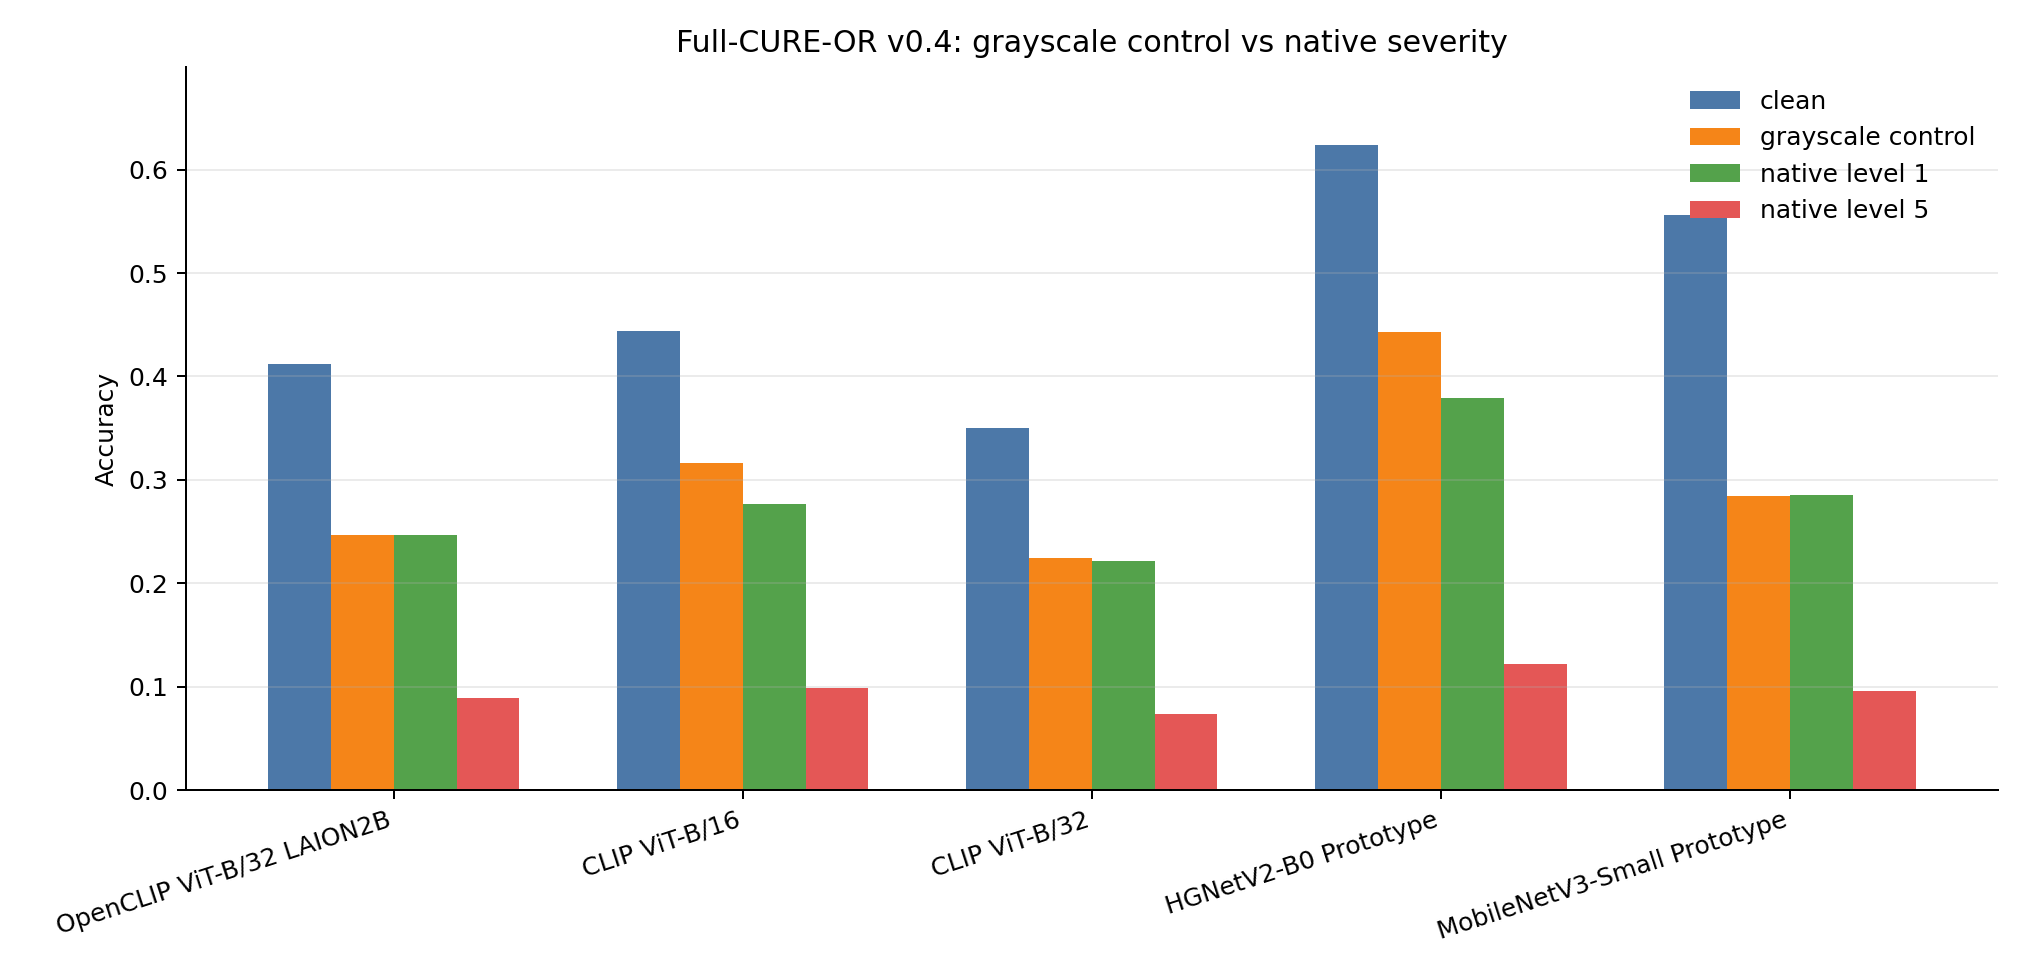
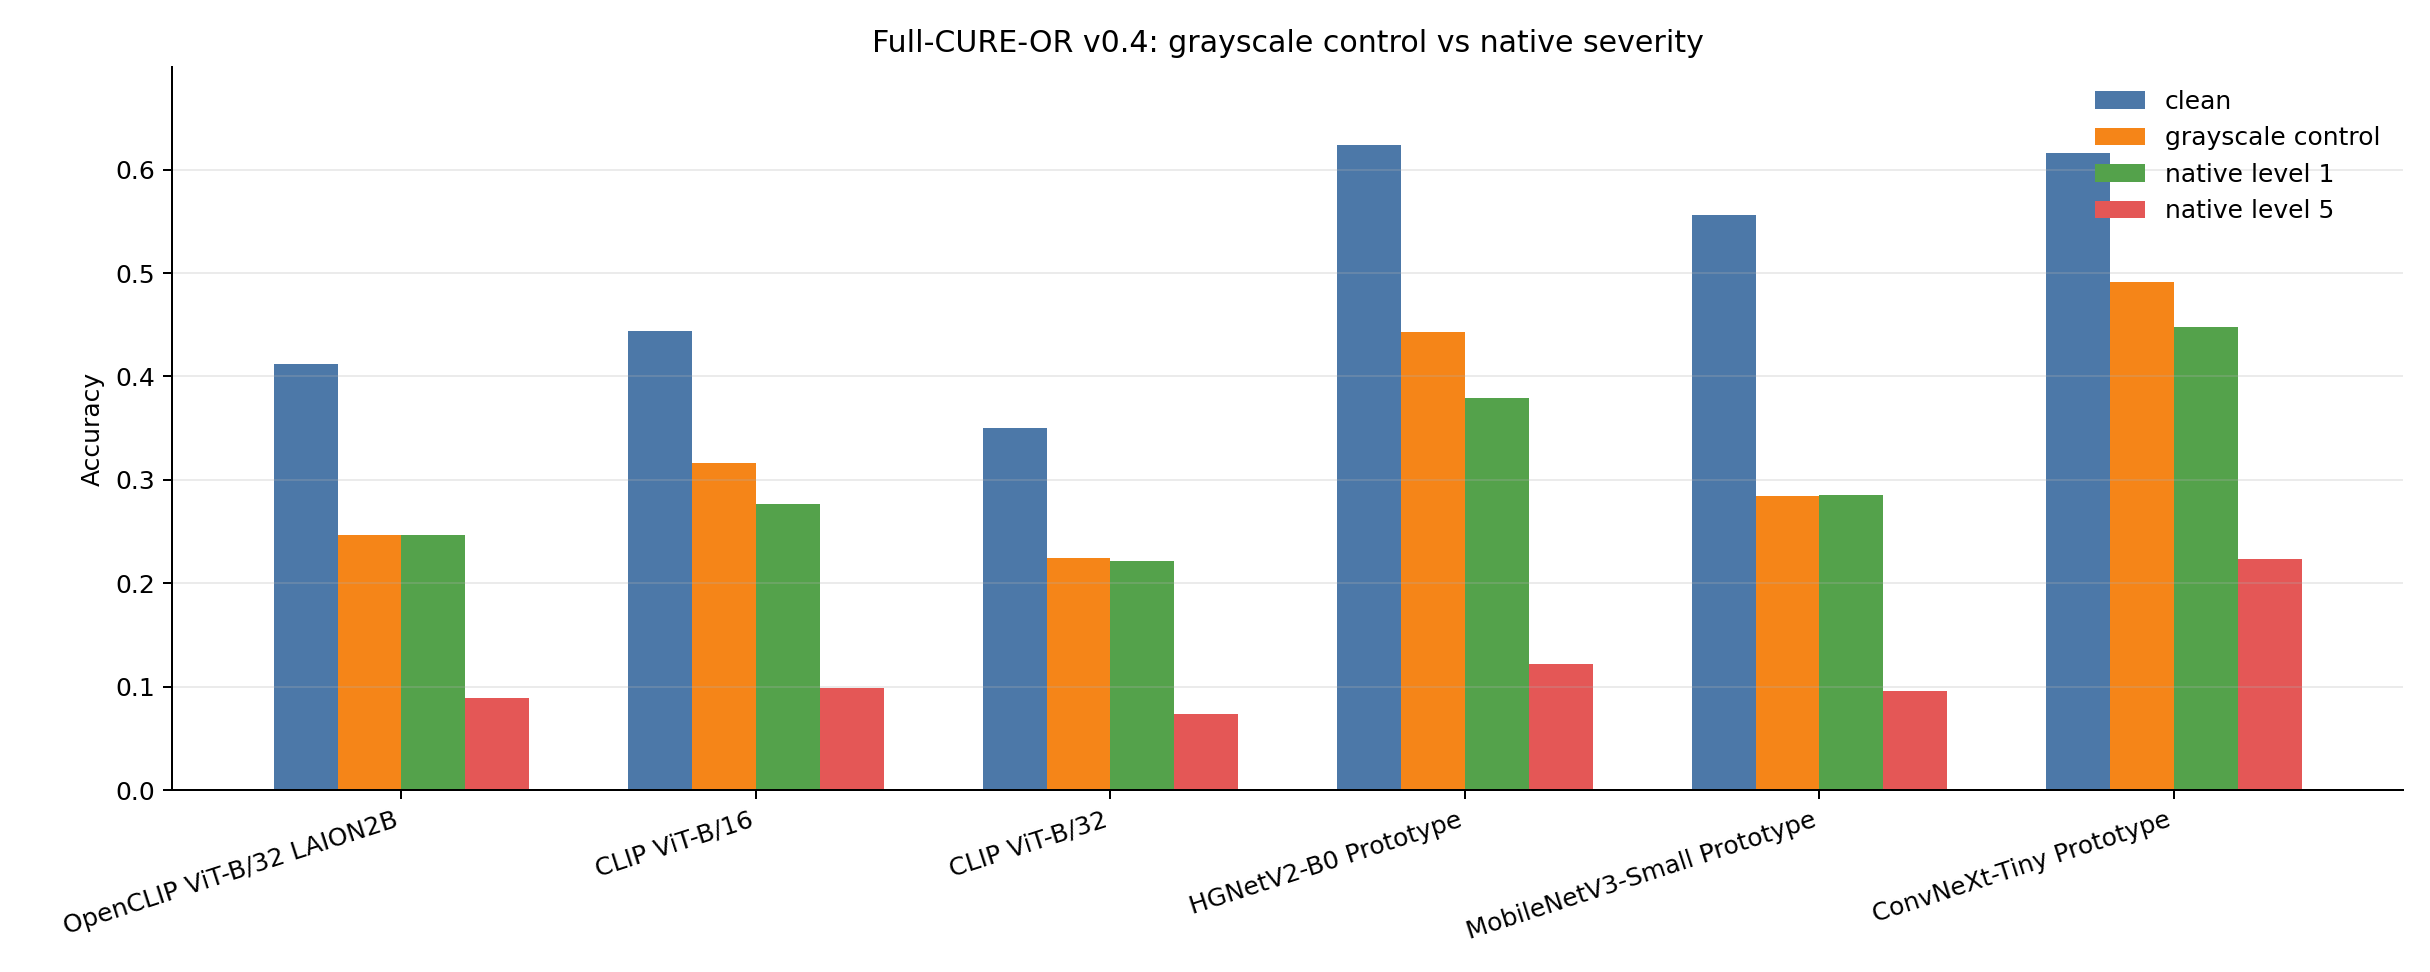
Add ConvNeXt Full-CURE-OR prototype baseline

diff --git a/scripts/compare_full_cure_or_control.py b/scripts/compare_full_cure_or_control.py
@@ -91,7 +91,7 @@ def load_rows(path: Path) -> list[dict]:
 def write_csv(path: Path, rows: list[dict]) -> None:
     path.parent.mkdir(parents=True, exist_ok=True)
     with path.open("w", newline="", encoding="utf-8") as handle:
-        writer = csv.DictWriter(handle, fieldnames=list(rows[0].keys()))
+        writer = csv.DictWriter(handle, fieldnames=list(rows[0].keys()), lineterminator="\n")
         writer.writeheader()
         writer.writerows(rows)
 

diff --git a/scripts/compare_native_pilot.py b/scripts/compare_native_pilot.py
@@ -97,7 +97,7 @@ def print_headline(rows: list[dict], severity: str) -> None:
 def write_csv(path: Path, rows: list[dict]) -> None:
     path.parent.mkdir(parents=True, exist_ok=True)
     with path.open("w", newline="", encoding="utf-8") as handle:
-        writer = csv.DictWriter(handle, fieldnames=list(rows[0].keys()))
+        writer = csv.DictWriter(handle, fieldnames=list(rows[0].keys()), lineterminator="\n")
         writer.writeheader()
         writer.writerows(rows)
 

diff --git a/scripts/evaluate_full_cure_or_prototype.py b/scripts/evaluate_full_cure_or_prototype.py
@@ -255,7 +255,7 @@ def write_csv(path: Path, rows: list[dict]) -> None:
         path.write_text("", encoding="utf-8")
         return
     with path.open("w", newline="", encoding="utf-8") as handle:
-        writer = csv.DictWriter(handle, fieldnames=list(rows[0].keys()))
+        writer = csv.DictWriter(handle, fieldnames=list(rows[0].keys()), lineterminator="\n")
         writer.writeheader()
         writer.writerows(rows)
 

diff --git a/reports/full_cure_or_probe_v04_status.md b/reports/full_cure_or_probe_v04_status.md
@@ -95,11 +95,12 @@ also near chance. This supports a stronger research claim than a single
 produce challenge-specific and model-specific robustness rankings.
 
 This is still a probe, not the final arXiv-scale benchmark. The main remaining
-gaps are more usable model families, extending confidence/calibration analysis
-to every new model, and a real transfer validation sample. The expanded pass
-increases coverage to four completed model configs, but only three are
-currently usable for robustness claims because SigLIP fails clean recognition
-under this prompt protocol.
+gaps are more usable pretrained model families, extending
+confidence/calibration analysis to every new zero-shot/VLM model, and a real
+transfer validation sample. The v0.4 block now has six usable baseline rows
+across three CLIP-family zero-shot models and three frozen-feature prototype
+classifiers, plus one SigLIP diagnostic failure under the current prompt
+protocol.
 
 The confidence/calibration pass for the three usable zero-shot baselines is now
 complete. It shows that OpenCLIP has the strongest overconfidence failure at
@@ -113,14 +114,17 @@ native level-5 collapse. CLIP ViT-B/16 accuracy is 0.3166 on grayscale control
 versus 0.0994 on native level 5. Details are in
 `reports/full_cure_or_grayscale_control_v04.md`.
 
-The non-CLIP prototype pass is also complete. It adds HGNetV2-B0 and
-MobileNetV3-Small frozen-feature nearest-centroid baselines with a
-leave-clean-condition-out protocol. HGNetV2-B0 reaches 0.6240 clean accuracy,
-0.4429 grayscale-control accuracy, and 0.1219 mean native level-5 accuracy.
-MobileNetV3-Small reaches 0.5560 clean accuracy, 0.2846 grayscale-control
-accuracy, and 0.0960 mean native level-5 accuracy. Both prototype models have a
-different worst level-5 native challenge from the CLIP-family models: type 05,
-gaussian blur, tied with other near-chance failures. Details are in
+The non-CLIP prototype pass is also complete. It adds HGNetV2-B0,
+MobileNetV3-Small, and ConvNeXt-Tiny frozen-feature nearest-centroid baselines
+with a leave-clean-condition-out protocol. HGNetV2-B0 reaches 0.6240 clean
+accuracy and 0.1219 mean native level-5 accuracy. MobileNetV3-Small reaches
+0.5560 clean accuracy and 0.0960 mean native level-5 accuracy. ConvNeXt-Tiny
+reaches 0.6160 clean accuracy, 0.4910 grayscale-control accuracy, 0.3436 mean
+native accuracy, and 0.2239 mean native level-5 accuracy, making it the
+strongest current v0.4 baseline under the native challenge metrics. The
+prototype models also show model-family-dependent worst-case rankings: HGNetV2
+and MobileNet collapse first on gaussian blur ties, while ConvNeXt-Tiny is worst
+on grayscale salt-and-pepper noise. Details are in
 `reports/full_cure_or_prototype_v04.md`.
 
 ## Artifacts
@@ -164,12 +168,15 @@ gaussian blur, tied with other near-chance failures. Details are in
 - `reports/full_cure_or_grayscale_control_v04.md`
 - `configs/hgnetv2_b0_full_cure_or_prototype_v04.json`
 - `configs/mobilenet_v3_small_full_cure_or_prototype_v04.json`
+- `configs/convnext_tiny_fb_in1k_full_cure_or_prototype_v04.json`
 - `configs/full_cure_or_probe_summaries_v04_with_prototypes.json`
 - `configs/full_cure_or_grayscale_control_summaries_v04_with_prototypes.json`
 - `results/hgnetv2_b0_full_cure_or_prototype_v04_predictions.csv`
 - `results/hgnetv2_b0_full_cure_or_prototype_v04_summary.csv`
 - `results/mobilenet_v3_small_full_cure_or_prototype_v04_predictions.csv`
 - `results/mobilenet_v3_small_full_cure_or_prototype_v04_summary.csv`
+- `results/convnext_tiny_fb_in1k_full_cure_or_prototype_v04_predictions.csv`
+- `results/convnext_tiny_fb_in1k_full_cure_or_prototype_v04_summary.csv`
 - `results/full_cure_or_probe_v04_with_prototypes_comparison.csv`
 - `results/full_cure_or_probe_v04_with_prototypes_level5_ranking.csv`
 - `results/full_cure_or_probe_v04_with_prototypes_mean_accuracy_by_level.png`

diff --git a/reports/full_cure_or_prototype_v04.md b/reports/full_cure_or_prototype_v04.md
@@ -2,15 +2,16 @@
 
 ## Summary
 
-This pass adds two non-CLIP classifier backbones to the same Full-CURE-OR v0.4
+This pass adds three non-CLIP classifier backbones to the same Full-CURE-OR v0.4
 manifest:
 
 - HGNetV2-B0 Prototype;
-- MobileNetV3-Small Prototype.
+- MobileNetV3-Small Prototype;
+- ConvNeXt-Tiny Prototype.
 
-The goal is model-family diversity, not a new training benchmark. Both models
-use frozen ImageNet features and a nearest-centroid classifier over the 100
-Full-CURE-OR object labels.
+The goal is model-family diversity, not a new training benchmark. All three
+models use frozen ImageNet features and a nearest-centroid classifier over the
+100 Full-CURE-OR object labels.
 
 Protocol:
 
@@ -40,13 +41,15 @@ disk.
 | --- | ---: | ---: | ---: | ---: | ---: | ---: | ---: | ---: |
 | HGNetV2-B0 Prototype | 0.6240 | 0.4429 | 0.2547 | 0.3793 | 0.3006 | 0.2505 | 0.2045 | 0.1219 |
 | MobileNetV3-Small Prototype | 0.5560 | 0.2846 | 0.1936 | 0.2855 | 0.2239 | 0.1872 | 0.1631 | 0.0960 |
+| ConvNeXt-Tiny Prototype | 0.6160 | 0.4910 | 0.3436 | 0.4481 | 0.3914 | 0.3435 | 0.2965 | 0.2239 |
 
 For context, the strongest zero-shot baseline in the current v0.4 block is
 CLIP ViT-B/16 with clean accuracy 0.4440 and mean level-5 native accuracy
-0.0994. HGNetV2-B0 is now the strongest local baseline on clean, grayscale
-control, and every native challenge level. MobileNetV3-Small is weaker than
-HGNetV2-B0, but its mean native accuracy is close to CLIP ViT-B/16 while using
-a different non-contrastive classifier protocol.
+0.0994. HGNetV2-B0 remains the strongest prototype on clean accuracy, while
+ConvNeXt-Tiny is strongest on grayscale control, mean native accuracy, and every
+native challenge level. MobileNetV3-Small is weaker than HGNetV2-B0 and
+ConvNeXt-Tiny, but its mean native accuracy is close to CLIP ViT-B/16 while
+using a different non-contrastive classifier protocol.
 
 Level-5 worst-case ranking also changes by model family:
 
@@ -57,6 +60,7 @@ Level-5 worst-case ranking also changes by model family:
 | CLIP ViT-B/32 | type 09, salt and pepper noise | 0.0060 |
 | HGNetV2-B0 Prototype | type 05, gaussian blur; tied with types 09, 14, and 18 | 0.0100 |
 | MobileNetV3-Small Prototype | type 05, gaussian blur; tied with types 09, 14, and 18 | 0.0100 |
+| ConvNeXt-Tiny Prototype | type 18, grayscale salt and pepper noise | 0.0080 |
 
 That ranking shift is useful for the paper-level argument: CURE-OR is not just
 measuring generic image difficulty. The most damaging native challenge depends
@@ -67,12 +71,15 @@ on the model family and decision protocol.
 - `scripts/evaluate_full_cure_or_prototype.py`
 - `configs/hgnetv2_b0_full_cure_or_prototype_v04.json`
 - `configs/mobilenet_v3_small_full_cure_or_prototype_v04.json`
+- `configs/convnext_tiny_fb_in1k_full_cure_or_prototype_v04.json`
 - `configs/full_cure_or_probe_summaries_v04_with_prototypes.json`
 - `configs/full_cure_or_grayscale_control_summaries_v04_with_prototypes.json`
 - `results/hgnetv2_b0_full_cure_or_prototype_v04_predictions.csv`
 - `results/hgnetv2_b0_full_cure_or_prototype_v04_summary.csv`
 - `results/mobilenet_v3_small_full_cure_or_prototype_v04_predictions.csv`
 - `results/mobilenet_v3_small_full_cure_or_prototype_v04_summary.csv`
+- `results/convnext_tiny_fb_in1k_full_cure_or_prototype_v04_predictions.csv`
+- `results/convnext_tiny_fb_in1k_full_cure_or_prototype_v04_summary.csv`
 - `results/full_cure_or_probe_v04_with_prototypes_comparison.csv`
 - `results/full_cure_or_probe_v04_with_prototypes_level5_ranking.csv`
 - `results/full_cure_or_probe_v04_with_prototypes_mean_accuracy_by_level.png`

diff --git a/README.md b/README.md
@@ -71,6 +71,7 @@ Serious-level work has started:
 - SigLIP Base P16 224 zero-shot diagnostic baseline.
 - HGNetV2-B0 clean-train prototype baseline.
 - MobileNetV3-Small clean-train prototype baseline.
+- ConvNeXt-Tiny clean-train prototype baseline.
 - Cross-model comparison and per-class failure tables.
 - Combined high-severity comparison figure.
 - Confidence shift table and high-severity confidence figure.
@@ -89,7 +90,7 @@ Serious-level work has started:
   diagnostic run.
 - Full-CURE-OR v0.4 type-10 grayscale no-challenge control.
 - Full-CURE-OR v0.4 leave-clean-condition-out prototype baselines with
-  HGNetV2-B0 and MobileNetV3-Small.
+  HGNetV2-B0, MobileNetV3-Small, and ConvNeXt-Tiny.
 
 Corrected test-split headline:
 
@@ -137,6 +138,7 @@ Full-CURE-OR staged probe:
 
 | Model | Clean accuracy | Mean native accuracy | Mean level-4 native accuracy | Mean level-5 native accuracy | Worst level-5 challenge | Worst level-5 accuracy |
 | --- | ---: | ---: | ---: | ---: | --- | ---: |
+| ConvNeXt-Tiny Prototype | 0.6160 | 0.3436 | 0.2965 | 0.2239 | type 18, grayscale salt and pepper noise | 0.0080 |
 | CLIP ViT-B/16 | 0.4440 | 0.1929 | 0.1596 | 0.0994 | type 09, salt and pepper noise; tied with type 18 | 0.0100 |
 | HGNetV2-B0 Prototype | 0.6240 | 0.2547 | 0.2045 | 0.1219 | type 05, gaussian blur; tied with types 09, 14, and 18 | 0.0100 |
 | MobileNetV3-Small Prototype | 0.5560 | 0.1936 | 0.1631 | 0.0960 | type 05, gaussian blur; tied with types 09, 14, and 18 | 0.0100 |
@@ -156,9 +158,18 @@ second paper-level finding: OpenCLIP reaches only 0.0890 mean level-5 accuracy
 while retaining 0.4781 mean confidence. The grayscale control adds a third
 guardrail: grayscale alone hurts, but it does not explain level-5 collapse.
 The prototype pass adds a fourth finding: non-CLIP frozen-feature classifiers
-produce a different level-5 worst-case ranking, with gaussian blur becoming the
-top collapse case. It is still a controlled probe rather than a full paper-scale
-evaluation because stronger pretrained model diversity and real transfer
-validation are not complete.
+produce different level-5 robustness rankings. HGNetV2-B0 and
+MobileNetV3-Small make gaussian blur a top collapse case, while ConvNeXt-Tiny
+substantially improves mean native and level-5 accuracy but still fails near
+chance on grayscale salt-and-pepper noise. It is still a controlled probe rather
+than a full paper-scale evaluation because stronger pretrained model diversity
+and real transfer validation are not complete.
 SigLIP is listed as a diagnostic failure under the current zero-shot prompt
 protocol, not as a strong robustness baseline.
+
+## License
+
+Code, configs, reports, and generated aggregate result artifacts in this
+repository are released under the MIT License. Raw CURE-OR and mini-CURE-OR
+data are not included in this repository and are not relicensed here; use those
+datasets only under the terms provided by their original sources.

diff --git a/docs/serious_level_plan.md b/docs/serious_level_plan.md
@@ -154,7 +154,8 @@ Do not publish the main Kaggle version until these are done:
   - CLIP ViT-B/32 mean level-5 native accuracy: 0.0741;
   - SigLIP Base P16 224 mean native accuracy: 0.0103;
   - conclusion: there are three usable zero-shot CLIP-family baselines and one
-    documented SigLIP protocol mismatch, not yet five usable model families.
+    documented SigLIP protocol mismatch before adding the non-CLIP prototype
+    block.
 - Full-CURE-OR v0.4 confidence/calibration pass, completed:
   - usable models: CLIP ViT-B/16, OpenCLIP ViT-B/32 LAION2B, CLIP ViT-B/32;
   - OpenCLIP level-5 accuracy: 0.0890;
@@ -176,9 +177,14 @@ Do not publish the main Kaggle version until these are done:
   - MobileNetV3-Small Prototype clean accuracy: 0.5560;
   - MobileNetV3-Small Prototype mean native accuracy: 0.1936;
   - MobileNetV3-Small Prototype mean level-5 native accuracy: 0.0960;
-  - conclusion: prototype classifiers add useful model-family diversity and
-    change the level-5 worst-case ranking to type 05, gaussian blur, but they
-    do not replace the need for stronger pretrained VLM baselines.
+  - ConvNeXt-Tiny Prototype clean accuracy: 0.6160;
+  - ConvNeXt-Tiny Prototype mean native accuracy: 0.3436;
+  - ConvNeXt-Tiny Prototype mean level-5 native accuracy: 0.2239;
+  - conclusion: prototype classifiers add useful model-family diversity.
+    HGNetV2-B0 and MobileNetV3-Small change the level-5 worst-case ranking to
+    type 05, gaussian blur ties, while ConvNeXt-Tiny becomes the strongest
+    current native-severity baseline but still collapses near chance on type
+    18, grayscale salt-and-pepper noise.
 
 ## Stretch Gate For arXiv/Workshop
 
@@ -189,8 +195,9 @@ For arXiv or workshop seriousness, add:
   - actual screenshot/resave chain;
   - actual video-call frame capture or screen recording compression;
 - at least 5 usable model families or pretrained variants on the v0.4
-  Full-CURE-OR probe, partially satisfied by three zero-shot CLIP-family
-  baselines plus two frozen-feature prototype baselines;
+  Full-CURE-OR probe, satisfied by six usable baseline rows but still weak on
+  pretrained family diversity because three rows are CLIP-family zero-shot
+  models and three rows are frozen-feature prototype classifiers;
 - confidence calibration or confidence-collapse analysis on the v0.4 probe,
   completed for current usable zero-shot baselines and still required for new
   models;

diff --git a/reports/full_cure_or_readiness_v01.md b/reports/full_cure_or_readiness_v01.md
@@ -27,6 +27,8 @@ Completed locally:
   zero-shot baselines.
 - v0.4 type-10 grayscale no-challenge control for the three usable zero-shot
   baselines.
+- v0.4 leave-clean-condition-out prototype baselines with HGNetV2-B0,
+  MobileNetV3-Small, and ConvNeXt-Tiny.
 
 ## Mini Probe Result
 
@@ -113,12 +115,14 @@ Evaluated v0.4 probe:
 - challenge levels: 1-5 where available;
 - type 02 and type 11 have levels 1-4 only;
 - main comparison models: CLIP ViT-B/16, OpenCLIP ViT-B/32 LAION2B,
-  CLIP ViT-B/32, HGNetV2-B0 Prototype, and MobileNetV3-Small Prototype.
+  CLIP ViT-B/32, HGNetV2-B0 Prototype, MobileNetV3-Small Prototype, and
+  ConvNeXt-Tiny Prototype.
 
 Headline v0.4 results:
 
 | Model | Clean accuracy | Mean native accuracy | Mean level-4 native accuracy | Mean level-5 native accuracy | Worst level-5 accuracy |
 | --- | ---: | ---: | ---: | ---: | ---: |
+| ConvNeXt-Tiny Prototype | 0.6160 | 0.3436 | 0.2965 | 0.2239 | 0.0080 |
 | CLIP ViT-B/16 | 0.4440 | 0.1929 | 0.1596 | 0.0994 | 0.0100 |
 | HGNetV2-B0 Prototype | 0.6240 | 0.2547 | 0.2045 | 0.1219 | 0.0100 |
 | MobileNetV3-Small Prototype | 0.5560 | 0.1936 | 0.1631 | 0.0960 | 0.0100 |
@@ -155,6 +159,7 @@ Grayscale control result:
 | CLIP ViT-B/32 | 0.3500 | 0.2244 | 0.1256 | 0.0741 |
 | HGNetV2-B0 Prototype | 0.6240 | 0.4429 | 0.1811 | 0.1219 |
 | MobileNetV3-Small Prototype | 0.5560 | 0.2846 | 0.2714 | 0.0960 |
+| ConvNeXt-Tiny Prototype | 0.6160 | 0.4910 | 0.1250 | 0.2239 |
 
 This separates grayscale/channel loss from full native severity: grayscale
 alone hurts, but it does not explain level-5 collapse.
@@ -215,6 +220,8 @@ Artifacts:
 - `results/full_cure_or_grayscale_control_v04_comparison.csv`
 - `results/full_cure_or_grayscale_control_v04_comparison.png`
 - `reports/full_cure_or_prototype_v04.md`
+- `configs/convnext_tiny_fb_in1k_full_cure_or_prototype_v04.json`
+- `results/convnext_tiny_fb_in1k_full_cure_or_prototype_v04_summary.csv`
 - `results/full_cure_or_probe_v04_with_prototypes_comparison.csv`
 - `results/full_cure_or_probe_v04_with_prototypes_level5_ranking.csv`
 - `results/full_cure_or_probe_v04_with_prototypes_mean_accuracy_by_level.png`
@@ -226,7 +233,7 @@ Artifacts:
 
 The complete 18-folder release is now staged and probed, so the remaining
 limitation is no longer folder availability. The v0.4 probe now has three
-usable zero-shot CLIP-family baselines, two usable frozen-feature prototype
+usable zero-shot CLIP-family baselines, three usable frozen-feature prototype
 baselines, and one SigLIP diagnostic failure. It still needs stronger
 pretrained model-family diversity, uses five paired samples per
 object/challenge group, and does not yet include a real transfer validation

diff --git a/data/README.md b/data/README.md
@@ -2,6 +2,10 @@
 
 This directory is intentionally lightweight in git.
 
+Raw CURE-OR and mini-CURE-OR files are intentionally excluded from this
+repository. The project code is MIT-licensed, but source datasets remain under
+the terms set by their original distributors.
+
 Recommended local layout for the first experiments:
 
 ```text

diff --git a/reports/full_cure_or_grayscale_control_v04.md b/reports/full_cure_or_grayscale_control_v04.md
@@ -30,6 +30,10 @@ disk.
 | OpenCLIP ViT-B/32 LAION2B | 0.4120 | 0.2465 | 0.1655 | 0.2473 | 0.0890 | 0.1575 |
 | CLIP ViT-B/32 | 0.3500 | 0.2244 | 0.1256 | 0.2220 | 0.0741 | 0.1503 |
 
+The prototype-extended control comparison is generated separately in
+`results/full_cure_or_grayscale_control_v04_with_prototypes_comparison.csv`
+and summarized in `reports/full_cure_or_prototype_v04.md`.
+
 ## Interpretation
 
 The grayscale-only control is damaging, but it does not explain the full native